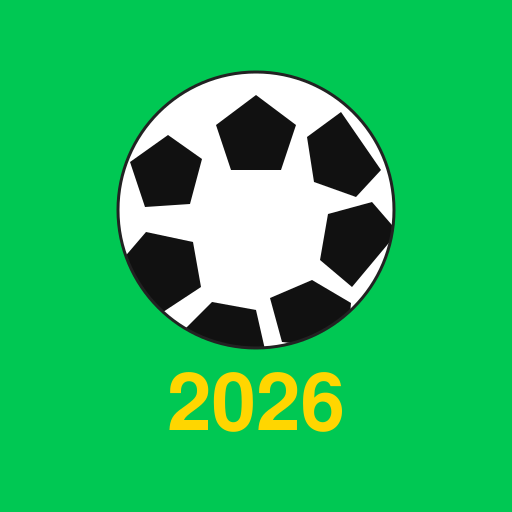
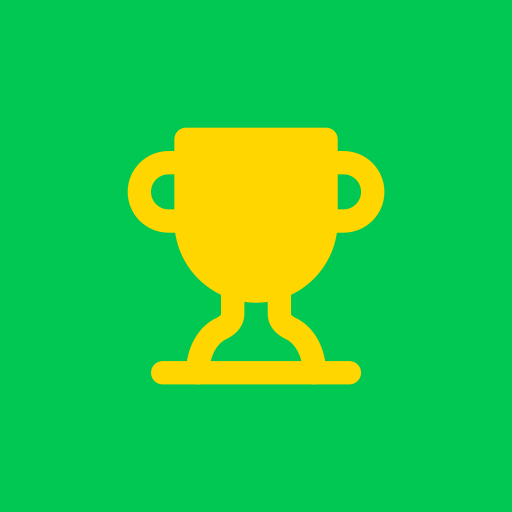
feat: ícone PWA com troféu da marca + stories unidos na Dashboard
- Ícone do PWA trocado da bola+2026 (feio) por um troféu amarelo no verde,
  igual ao logo da página. Regenerados pwa-icon 192/512.
- Dashboard: "Stories do Dia" deixa de exibir cards separados por categoria e
  vira um único acesso estilo Instagram (ring do Seu Zé) que abre todos no
  viewer unificado. Remove MiniStory e imports de template não usados.

Changed region(s): [[0.2188, 0.125, 0.7812, 0.8438]]

diff --git a/src/pages/Dashboard.tsx b/src/pages/Dashboard.tsx
@@ -6,12 +6,6 @@ import { useTranslation } from 'react-i18next'
 import { Navbar } from '../components/Navbar'
 import { ComentaristaCard } from '../components/ComentaristaCard'
 import { StoriesViewer, type StoryData } from '../components/StoriesViewer'
-import { StoryHallVergonha } from '../components/stories/StoryHallVergonha'
-import { StoryZebraDia } from '../components/stories/StoryZebraDia'
-import { StoryVidente } from '../components/stories/StoryVidente'
-import { StorySubiuAfundou } from '../components/stories/StorySubiuAfundou'
-import { StoryCovarde } from '../components/stories/StoryCovarde'
-import { StoryTelepata } from '../components/stories/StoryTelepata'
 import { useAuth } from '../contexts/AuthContext'
 import { useJogos } from '../hooks/useJogos'
 import { supabase } from '../lib/supabase'
@@ -19,28 +13,6 @@ import { agregarEstatisticas, type PalpiteResumo } from '../lib/pontuacao'
 import { calcularPontos, formatarData } from '../lib/utils'
 
 interface ComentarioIA { id: string; conteudo: string; publicado_em: string | null }
-
-function MiniStory({ story, onClick }: { story: StoryData; onClick: () => void }) {
-  const dados = story.dados ?? {}
-  const props = { titulo: story.titulo, conteudo: story.conteudo_ia, dados }
-  return (
-    <button onClick={onClick} className="group relative overflow-hidden rounded-xl transition hover:scale-[1.03]">
-      <div className="scale-[0.38] origin-top-left" style={{ width: 400, height: 540 }}>
-        {story.template === 'hall_vergonha'      && <StoryHallVergonha {...props} />}
-        {story.template === 'zebra_dia'          && <StoryZebraDia {...props} />}
-        {story.template === 'vidente_chutometro' && <StoryVidente {...props} />}
-        {story.template === 'subiu_afundou'      && <StorySubiuAfundou {...props} />}
-        {story.template === 'palpite_covarde'    && <StoryCovarde {...props} />}
-        {story.template === 'telepata_rodada'    && <StoryTelepata {...props} />}
-      </div>
-      <div style={{ height: 205, width: 152 }} className="pointer-events-none" />
-      <div className="pointer-events-none absolute inset-x-0 bottom-0 h-10 bg-gradient-to-t from-black/60 to-transparent" />
-      <span className="absolute bottom-1.5 left-1.5 right-1.5 truncate text-[10px] font-semibold text-white drop-shadow">
-        {story.titulo}
-      </span>
-    </button>
-  )
-}
 
 function formatarRestante(ms: number): string {
   if (ms <= 0) return 'Em andamento'
@@ -346,11 +318,24 @@ export function Dashboard() {
             </Link>
           </div>
           {stories.length > 0 ? (
-            <div className="flex gap-3">
-              {stories.slice(0, 3).map((s, i) => (
-                <MiniStory key={s.id} story={s} onClick={() => setViewerIdx(i)} />
-              ))}
-            </div>
+            <button
+              onClick={() => setViewerIdx(0)}
+              className="flex items-center gap-4 text-left transition hover:opacity-90"
+            >
+              <span className="rounded-full bg-gradient-to-tr from-brasil-green via-brasil-yellow to-brasil-green p-[3px]">
+                <span className="flex h-20 w-20 items-center justify-center rounded-full bg-zinc-900 text-4xl">
+                  👴🏽
+                </span>
+              </span>
+              <span>
+                <span className="block font-display text-xl tracking-wide text-zinc-100">
+                  Ver stories
+                </span>
+                <span className="block text-sm text-zinc-400">
+                  {stories.length} {stories.length === 1 ? 'card' : 'cards'} do Seu Zé · toque para abrir
+                </span>
+              </span>
+            </button>
           ) : (
             <div className="glass flex items-center gap-3 px-4 py-5">
               <span className="text-3xl opacity-40">📸</span>